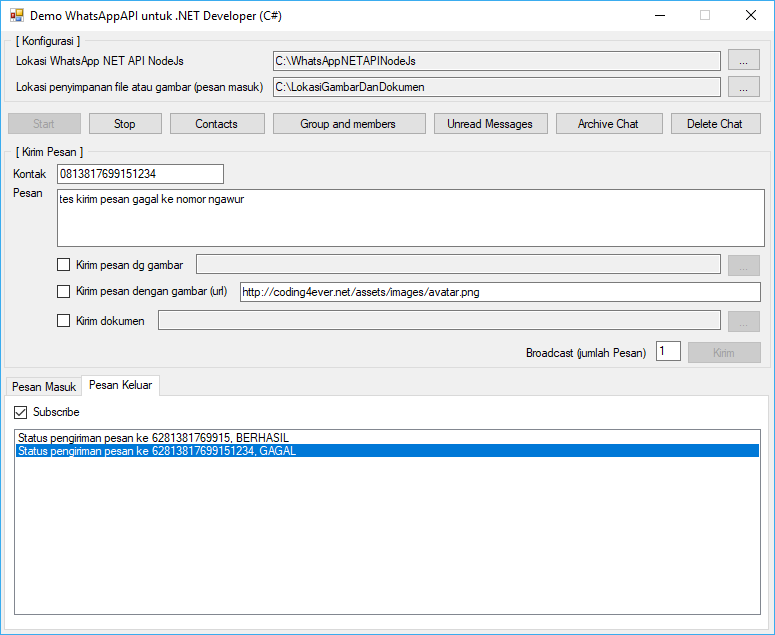
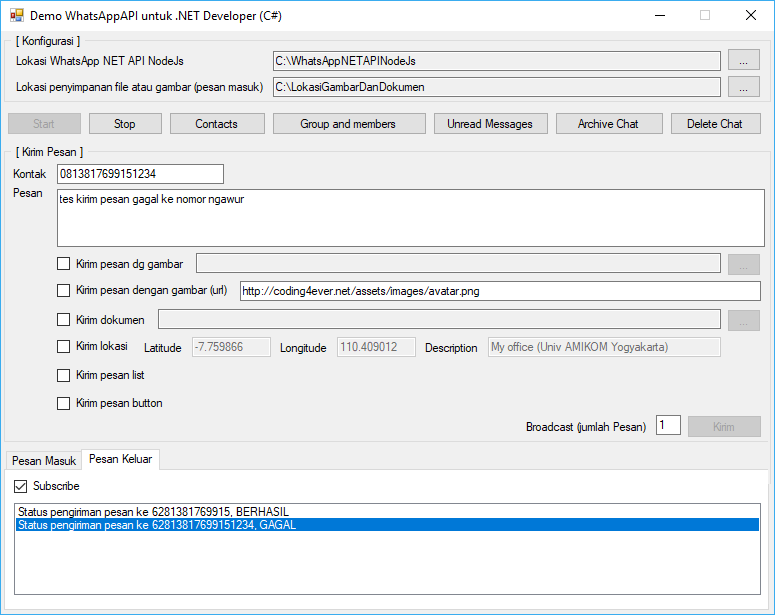
Site updated at 2021-10-31 04:37:00 PM

diff --git a/index.html b/index.html
@@ -67,6 +67,7 @@
   <li>Mengirim pesan dengan gambar, audio, video, dan semua jenis dokumen</li>
   <li>Mengirim pesan dengan gambar, audio, video, dan semua jenis dokumen via URL</li>
   <li>Mengirim pesan dengan tipe <code class="language-plaintext highlighter-rouge">location</code></li>
+  <li>Mengirim pesan dengan tipe <code class="language-plaintext highlighter-rouge">list</code> dan <code class="language-plaintext highlighter-rouge">button</code></li>
   <li>ReplyMessage (quoted message)</li>
   <li>Bisa menyimpan gambar, audio, video, semua jenis dokumen termasuk vcard dari pesan yang masuk (bisa ditentukan sendiri lokasi penyimpanannya)</li>
   <li>Bisa juga membaca pesan dengan tipe <code class="language-plaintext highlighter-rouge">vcard</code> dan <code class="language-plaintext highlighter-rouge">location</code></li>
@@ -171,7 +172,13 @@
 </code></pre></div></div>
 <p>Kemudian tunggu sampai proses updatenya selesai. Jika berhasil tampilan prosesnya lebih kurang seperti berikut:</p>
 
-<p><img src="http://wa-net.coding4ever.net/assets/images/21.png" alt="" /></p>
+<p><img src="http://wa-net.coding4ever.net/assets/images/21a.png" alt="" /></p>
+
+<p>Setelah itu lanjutkan dengan mengetik perintah <code class="language-plaintext highlighter-rouge">npm update whatsapp-web.js</code></p>
+
+<p>Tunggu sampai proses update versi whatsapp-web.js selesai. Kalo untuk tampilan prosesnya lebih kurang seperti berikut, jadi mungkin di pc/laptop Anda akan mendapatkan tampilan yang berbeda.</p>
+
+<p><img src="http://wa-net.coding4ever.net/assets/images/21b.png" alt="" /></p>
 
 <h3 id="2-mengupdate-project-net">2. Mengupdate Project .NET</h3>
 
@@ -214,6 +221,17 @@
 <p><img src="http://wa-net.coding4ever.net/assets/images/20.png" alt="" /></p>
 
 <h2 id="info-rilis">Info Rilis</h2>
+
+<h3 id="v240-2021-10-31">v2.4.0 (2021-10-31)</h3>
+
+<ul>
+  <li>Fitur baru:
+    <ul>
+      <li>Penambahan fitur untuk mengirimkan pesan dengan format <code class="language-plaintext highlighter-rouge">list</code> dan <code class="language-plaintext highlighter-rouge">button</code></li>
+      <li>Penambahan attribut <code class="language-plaintext highlighter-rouge">pushname</code> di object contact sebagai alternatif untuk mendapatkan informasi nama pengirim yang belum terdaftar di kontak</li>
+    </ul>
+  </li>
+</ul>
 
 <h3 id="v230-2021-08-19">v2.3.0 (2021-08-19)</h3>
 
